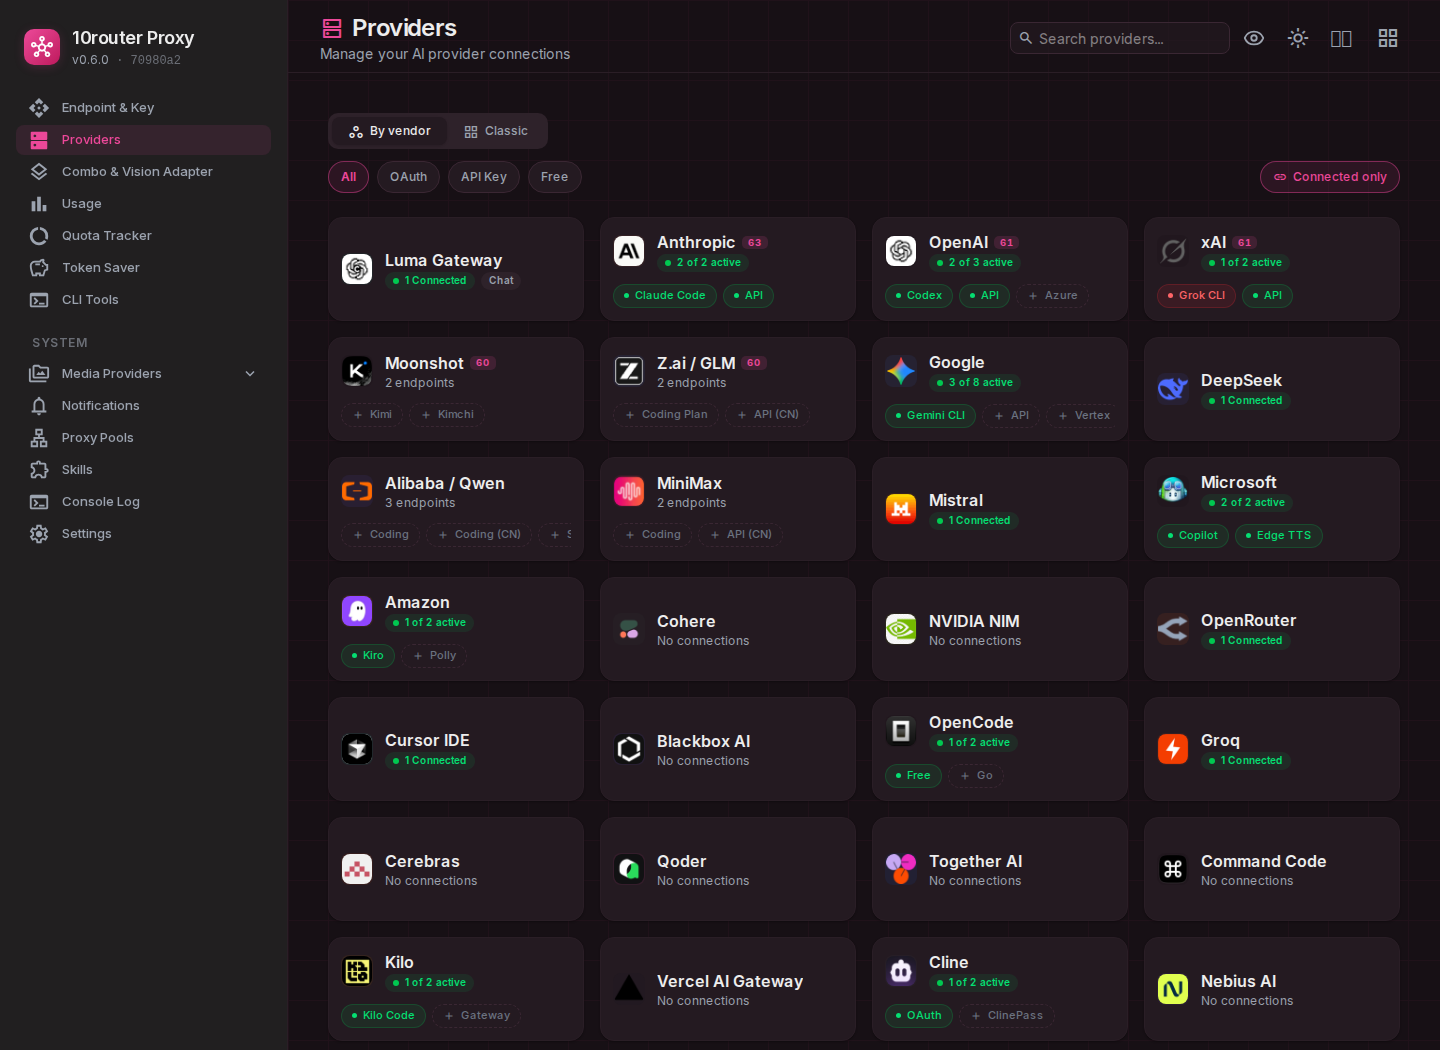
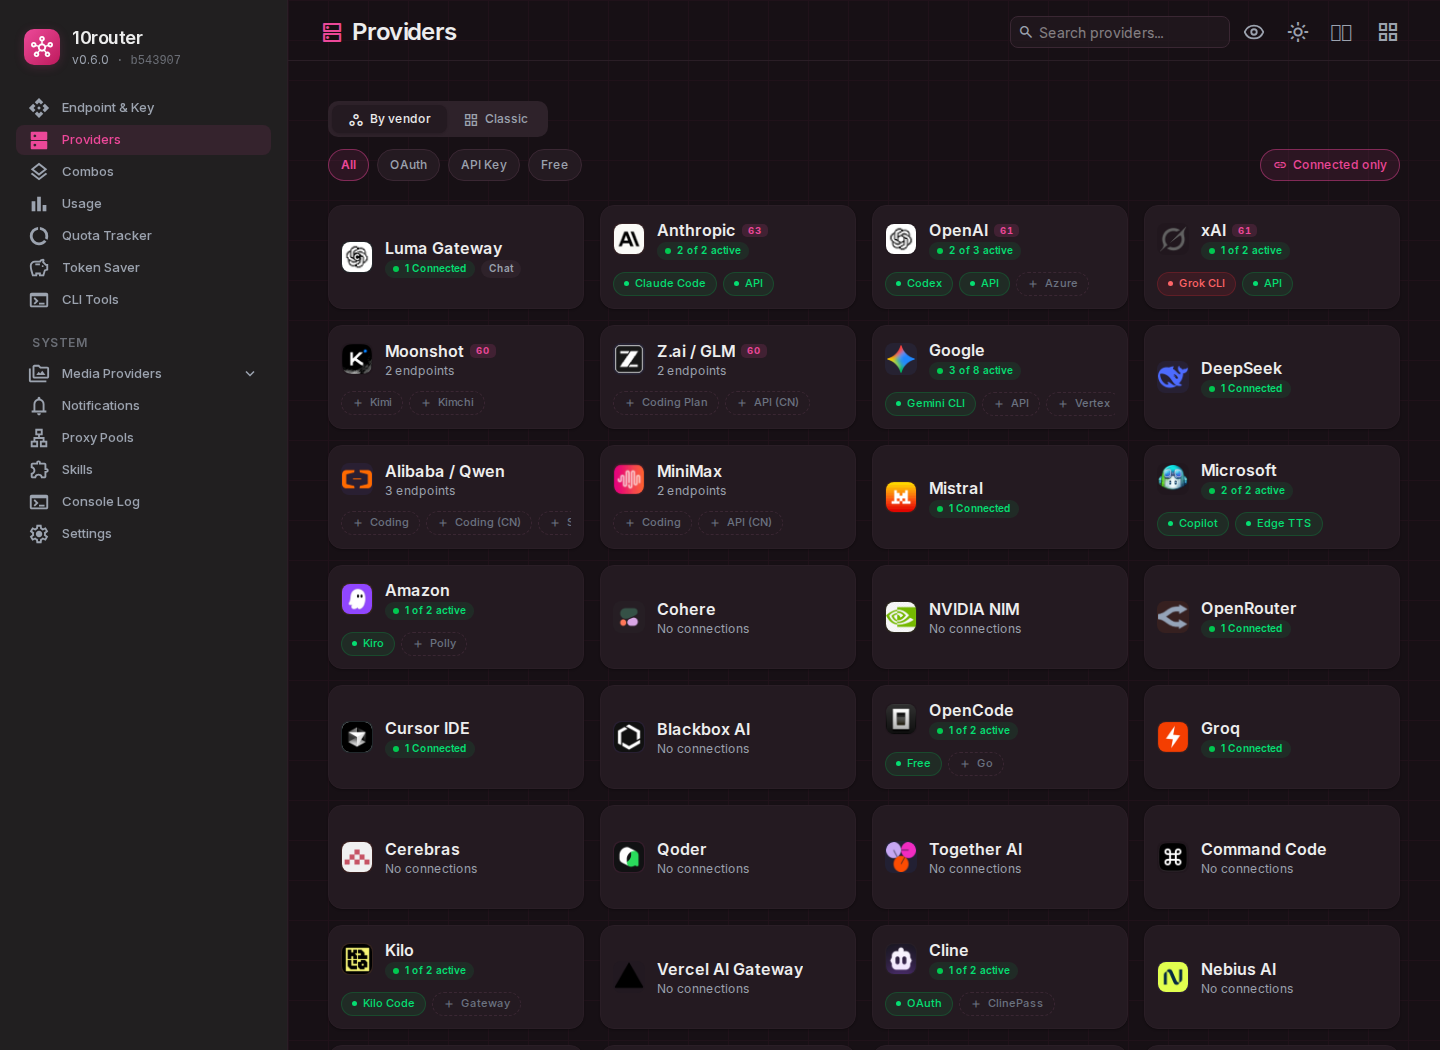
docs(readme): refresh dashboard screenshot

diff --git a/README.md b/README.md
@@ -1,5 +1,5 @@
 <div align="center">
-  <img src="./images/10router.png?2" alt="10router Dashboard" width="800"/>
+  <img src="./images/10router.png?3" alt="10router Dashboard" width="800"/>
 </div>
 
 # 10router
